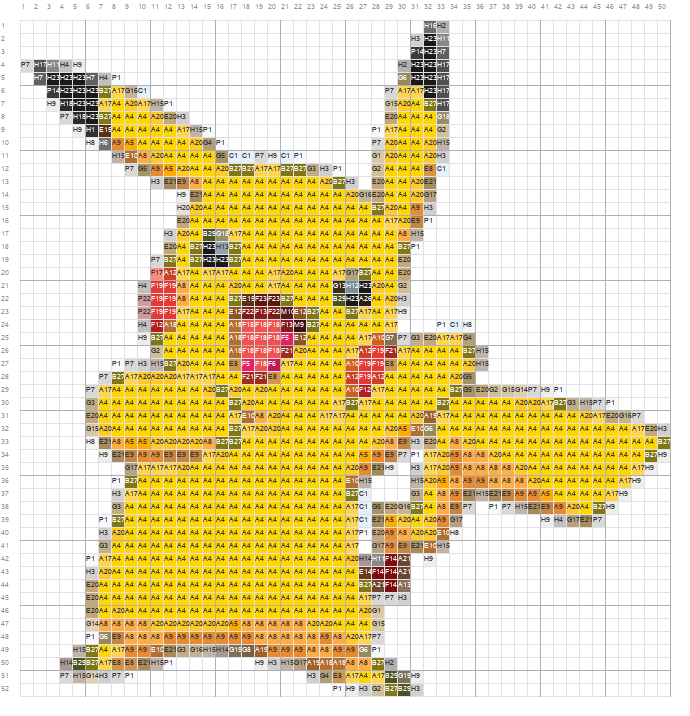
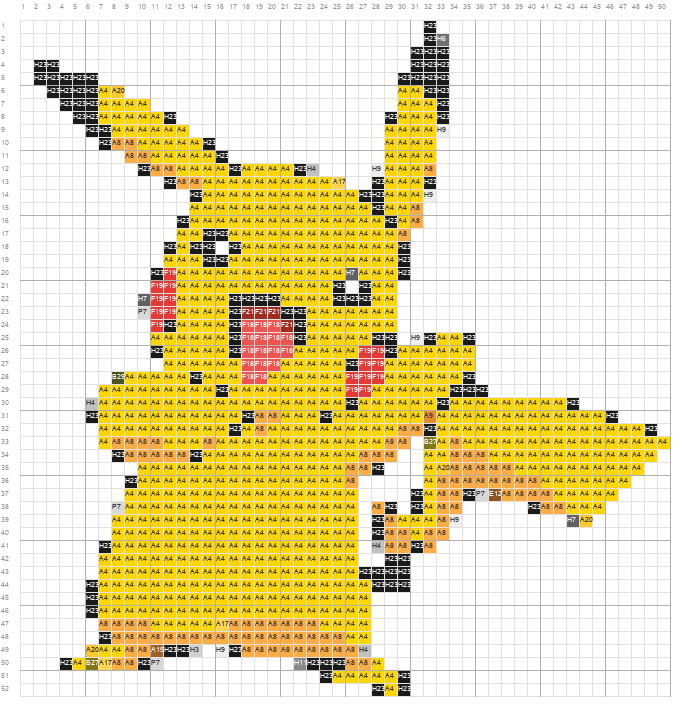
converter: Floyd-Steinberg error diffusion for better color fidelity + fewer colors

Changed region(s): [[0.0304, 0.0307, 0.9739, 0.9832]]

diff --git a/js/converter.js b/js/converter.js
@@ -80,26 +80,46 @@ class BeadConverter {
     cvs.width = gridWidth;
     cvs.height = gridHeight;
     const ctx = cvs.getContext('2d');
+    // Use high quality smoothing; for cartoon/pixel art, NEAREST would be better
+    // but for photos 'high' gives best fidelity
     ctx.imageSmoothingEnabled = true;
-    ctx.imageSmoothingQuality = 'medium';
+    ctx.imageSmoothingQuality = 'high';
     ctx.drawImage(image, 0, 0, gridWidth, gridHeight);
 
     const imgData = ctx.getImageData(0, 0, gridWidth, gridHeight);
     const px = imgData.data;
 
-    // First pass — map every pixel to nearest bead colour
+    // First pass — map every pixel to nearest bead colour with error diffusion
     const grid = [];
     const counts = {};
+    // Error diffusion buffers (current row + next row)
+    let errCurR = new Float32Array(gridWidth), errCurG = new Float32Array(gridWidth), errCurB = new Float32Array(gridWidth);
+    let errNxtR = new Float32Array(gridWidth), errNxtG = new Float32Array(gridWidth), errNxtB = new Float32Array(gridWidth);
+
     for (let y = 0; y < gridHeight; y++) {
       const row = [];
       for (let x = 0; x < gridWidth; x++) {
         const i = (y * gridWidth + x) * 4;
         if (px[i+3] < 128) { row.push(null); continue; }   // transparent → empty
-        const c = this.findNearest(px[i], px[i+1], px[i+2], palette);
+        const r = Math.max(0, Math.min(255, Math.round(px[i]   + errCurR[x])));
+        const g = Math.max(0, Math.min(255, Math.round(px[i+1] + errCurG[x])));
+        const b = Math.max(0, Math.min(255, Math.round(px[i+2] + errCurB[x])));
+        const c = this.findNearest(r, g, b, palette);
         row.push(c);
         counts[c.code] = (counts[c.code] || 0) + 1;
+        // Distribute quantization error (Floyd-Steinberg)
+        const er = r - c.rgb.r, eg = g - c.rgb.g, eb = b - c.rgb.b;
+        if (x + 1 < gridWidth)  { errCurR[x+1] += er * 7/16; errCurG[x+1] += eg * 7/16; errCurB[x+1] += eb * 7/16; }
+        if (y + 1 < gridHeight) {
+          if (x - 1 >= 0)      { errNxtR[x-1] += er * 3/16; errNxtG[x-1] += eg * 3/16; errNxtB[x-1] += eb * 3/16; }
+                                  errNxtR[x]   += er * 5/16; errNxtG[x]   += eg * 5/16; errNxtB[x]   += eb * 5/16;
+          if (x + 1 < gridWidth){ errNxtR[x+1] += er * 1/16; errNxtG[x+1] += eg * 1/16; errNxtB[x+1] += eb * 1/16; }
+        }
       }
       grid.push(row);
+      // Swap rows
+      errCurR = errNxtR; errCurG = errNxtG; errCurB = errNxtB;
+      errNxtR = new Float32Array(gridWidth); errNxtG = new Float32Array(gridWidth); errNxtB = new Float32Array(gridWidth);
     }
 
     // Optional colour reduction
@@ -131,7 +151,7 @@ class BeadConverter {
   /* ── Reduce to N most-used colours ────────────────────── */
 
   _reduceColors(grid, w, h, palette, counts, maxN) {
-    // Keep top-N colours by frequency
+    // Keep top-N colours by frequency, but also weight by visual importance
     const sorted = Object.entries(counts).sort((a, b) => b[1] - a[1]);
     const keep = new Set(sorted.slice(0, maxN).map(e => e[0]));
     const kept = palette.filter(c => keep.has(c.code));
@@ -139,11 +159,32 @@ class BeadConverter {
     // Clear cache for reduced palette lookups
     this._labCache.clear();
 
+    // Remap with Floyd-Steinberg error diffusion for better visual fidelity
+    // Build Lab error buffer
+    const errR = Array.from({length: h}, () => new Float32Array(w));
+    const errG = Array.from({length: h}, () => new Float32Array(w));
+    const errB = Array.from({length: h}, () => new Float32Array(w));
+
     for (let y = 0; y < h; y++) {
       for (let x = 0; x < w; x++) {
         const c = grid[y][x];
-        if (!c || keep.has(c.code)) continue;
-        grid[y][x] = this.findNearest(c.rgb.r, c.rgb.g, c.rgb.b, kept);
+        if (!c) continue;
+        if (keep.has(c.code)) continue;
+        // Add accumulated error to original RGB
+        const r = Math.max(0, Math.min(255, Math.round(c.rgb.r + errR[y][x])));
+        const g = Math.max(0, Math.min(255, Math.round(c.rgb.g + errG[y][x])));
+        const b = Math.max(0, Math.min(255, Math.round(c.rgb.b + errB[y][x])));
+        const nc = this.findNearest(r, g, b, kept);
+        grid[y][x] = nc;
+        // Compute quantization error
+        const er = r - nc.rgb.r, eg = g - nc.rgb.g, eb = b - nc.rgb.b;
+        // Distribute error to neighbors (Floyd-Steinberg)
+        if (x + 1 < w)           { errR[y][x+1]   += er * 7/16; errG[y][x+1]   += eg * 7/16; errB[y][x+1]   += eb * 7/16; }
+        if (y + 1 < h) {
+          if (x - 1 >= 0)        { errR[y+1][x-1] += er * 3/16; errG[y+1][x-1] += eg * 3/16; errB[y+1][x-1] += eb * 3/16; }
+                                   errR[y+1][x]   += er * 5/16; errG[y+1][x]   += eg * 5/16; errB[y+1][x]   += eb * 5/16;
+          if (x + 1 < w)        { errR[y+1][x+1] += er * 1/16; errG[y+1][x+1] += eg * 1/16; errB[y+1][x+1] += eb * 1/16; }
+        }
       }
     }
   }

diff --git a/index.html b/index.html
@@ -544,7 +544,7 @@
 <script src="js/gallery-patterns.js?v=20260323b"></script>
 <script src="js/pixel-text.js?v=20260323b"></script>
 <script src="js/colors.js?v=20260323b"></script>
-<script src="js/converter.js?v=20260323b"></script>
+<script src="js/converter.js?v=20260408b"></script>
 <script src="js/auth.js?v=20260323b"></script>
 <script src="js/app.js?v=20260408a"></script>
 </body>

diff --git a/scripts/gen_demo_pattern.py b/scripts/gen_demo_pattern.py
@@ -101,6 +101,10 @@ for code, hexc in MARD_COLORS:
     palette.append((code, hexc, rgb, lab))
 
 def find_nearest(r, g, b):
+    # Force very dark pixels to pure black (H23) to unify outlines
+    brightness = (r * 299 + g * 587 + b * 114) / 1000
+    if brightness < 60:
+        return ('H23', '#1A1A1A', (26, 26, 26), rgb_to_lab(26, 26, 26))
     lab = rgb_to_lab(r, g, b)
     best = min(palette, key=lambda c: delta_e(lab, c[3]))
     return best  # (code, hex, rgb, lab)
@@ -111,8 +115,8 @@ GRID_W = 50
 aspect = img.height / img.width
 GRID_H = round(GRID_W * aspect)
 
-# Downsample
-small = img.resize((GRID_W, GRID_H), Image.LANCZOS)
+# Downsample with NEAREST to preserve sharp black outlines
+small = img.resize((GRID_W, GRID_H), Image.NEAREST)
 
 # Convert to bead grid
 grid = []
